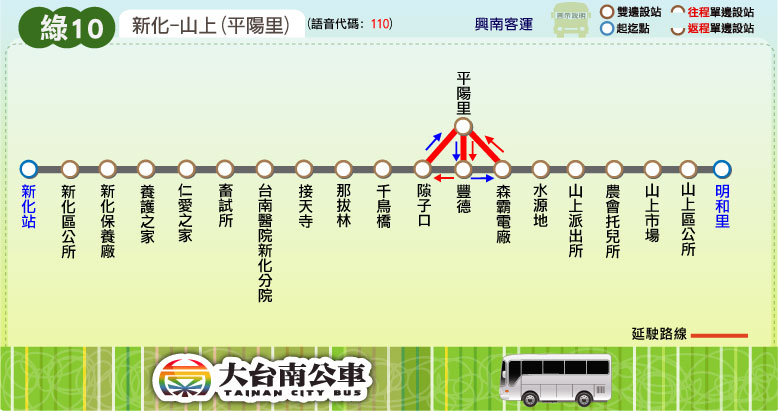
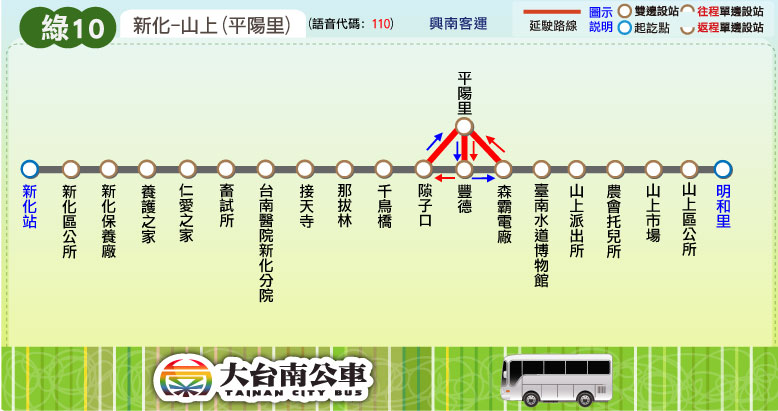
更新時刻表：南科橘線(北環西線)；站位更名：綠2、綠10、綠11(「水源地」更名為「臺南水道博物館」)

diff --git a/route/fare_and_time/green_2.js b/route/fare_and_time/green_2.js
@@ -9,7 +9,7 @@ green_2_interval_stop = [
 ["中正路","善化區公所","樹人路口"], // 善化
 ["善化轉運站","善化高中","大成陸橋"], // 善化轉運站
 ["小新里","磚窯","善化啤酒廠","士宏新村"], // 小新營
-["北勢洲","宏遠紡織","苦瓜寮","山上加油站","山上區公所","山上市場","農會托兒所","山上派出所","水源地","新庄(玉峰)"], // 山上
+["北勢洲","宏遠紡織","苦瓜寮","山上加油站","山上區公所","山上市場","農會托兒所","山上派出所","臺南水道博物館","新庄(玉峰)"], // 山上
 ["牛稠埔(玉峰)","中坑(玉峰)","玉峰里"] // 玉峰里
 ];
 green_2_fare = [
@@ -28,8 +28,8 @@ green_2_fare = [
 // format = [time at the start stop] or
 // [time, other] or
 // [time, start_stop, end_stop, other]
-green_2_main_stop_name = ["新化","新市<br />火車站","新市","南科<br />實中","亞蔬<br />中心","善化<br />轉運站","善化<br />高中","善化<br />啤酒廠","宏遠<br />紡織","山上<br />市場","水源地","玉峰里"];
+green_2_main_stop_name = ["新化","新市<br />火車站","新市","南科<br />實中","亞蔬<br />中心","善化<br />轉運站","善化<br />高中","善化<br />啤酒廠","宏遠<br />紡織","山上<br />市場","臺南水道<br />博物館","玉峰里"];
 green_2_main_stop_time_consume = [0, 10, 13, 24, 27, 40, 42, 49, 55, 60, 63, 70];
-green_2_important_stop = [0, 1, 3, 5, 9, 10]; // 新化, 新市火車站, 南科實中, 善化轉運站, 山上市場, 水源地
+green_2_important_stop = [0, 1, 3, 5, 9, 10]; // 新化, 新市火車站, 南科實中, 善化轉運站, 山上市場, 臺南水道博物館
 green_2_time_go = [["05:50"],["07:50",0,9],["13:00",0,9],["16:45"],["20:10",0,9]];
 green_2_time_return = [["07:00"],["08:50",9,0],["14:00",9,0],["18:10"],["21:10",9,0]];

diff --git a/route/fare_and_time/green_11.js b/route/fare_and_time/green_11.js
@@ -3,7 +3,7 @@ green_11_interval_stop = [
 ["新化站","新化區公所","新化保養廠","養護之家","仁愛之家"], // 新化
 ["畜試所","臺南醫院新化分院","接天寺","那拔林","千鳥橋"], // 那拔林
 ["隙仔口","豐德","森霸電廠"], // 豐德
-["水源地","山上派出所","農會托兒所","山上市場","山上區公所","明和里"], // 山上
+["臺南水道博物館","山上派出所","農會托兒所","山上市場","山上區公所","明和里"], // 山上
 ["大營路口","統一果汁廠","北大營"], // 大營路口
 ["可果美","五甲","目加溜灣","小新營","綠生活社區"], // 小新營
 ["茄拔","牛庄","北子店"], // 茄拔
@@ -22,8 +22,8 @@ green_11_fare = [
 // format = [time at the start stop] or
 // [time, other] or
 // [time, start_stop, end_stop, other]
-green_11_main_stop_name = ["新化","臺南醫院<br />新化分院","豐德","水源地","山上<br />市場","大營<br />路口","善化<br />轉運站"];
+green_11_main_stop_name = ["新化","臺南醫院<br />新化分院","豐德","臺南水道<br />博物館","山上<br />市場","大營<br />路口","善化<br />轉運站"];
 green_11_main_stop_time_consume = [0, 8, 14, 15, 18, 22, 40];
-green_11_important_stop = [0, 3, 6]; // 新化, 水源地, 善化轉運站
+green_11_important_stop = [0, 3, 6]; // 新化, 臺南水道博物館, 善化轉運站
 green_11_time_go = [["05:30"],["08:20"],["09:30",['W']],["12:30",['W']],["13:30"],["18:30"]];
 green_11_time_return = [["06:10"],["09:00"],["10:10",['W']],["13:10",['W']],["14:10"],["19:10"]];

diff --git a/route/fare_and_time/STSP_orange.js b/route/fare_and_time/STSP_orange.js
@@ -16,7 +16,7 @@ var park17_end = 11; // Park 17商場
 STSP_orange_time_go = [["06:30",[stop_01,stop_02]],["07:15",[stop_01,stop_02,[stop_2,1,stop_3,1]]],["07:15",[[stop_02+1,11,stop_2,1,stop_3,1]]],
 ["07:46",[stop_01,stop_02]],["07:58",[stop_01,stop_02]],["08:17",[stop_01,stop_02,[InnoLux,-1,park17_end,1]]],["09:18",[stop_01,stop_02,[InnoLux,-1,park17_end,1]]],
 ["10:02",[stop_01,stop_02,[InnoLux,-1,park17_end,1]]],["11:05",[stop_01,stop_02,[InnoLux,-1,park17_end,1]]],["12:00",[stop_01,stop_02,'*',[TRA_NK,23,InnoLux,-1,park17_end,1]]],["12:49",[stop_01,stop_02,[InnoLux,-1,park17_end,1]]],["13:45",[stop_01,stop_02,[InnoLux,-1,park17_end,1]]],["14:21",[stop_01,stop_02,[InnoLux,-1,park17_end,1]]],
-["15:18",[stop_01,stop_02,[InnoLux,-1,park17_end,1]]],["16:08",[stop_01,[stop_02,-6,stop_02+1,11,InnoLux,-1,park17_end,1]]],["17:03",[stop_01,stop_02]],["17:00",start_stop,TRA_NK,[stop_01,[stop_02,-3,stop_02+1,8,TRA_NK,1]]],["17:18",stop_02,TRA_NK,[[stop_02+1,5,TRA_NK,6]]]
+["15:18",[stop_01,stop_02,[InnoLux,-1,park17_end,1]]],["16:08",[stop_01,[stop_02,-6,stop_02+1,11,InnoLux,-1,park17_end,1]]],["17:03",[stop_01,stop_02]],["17:00",start_stop,TRA_NK,[stop_01,[stop_02,-6,stop_02+1,11,TRA_NK,1]]],["17:00",start_stop,TRA_NK,[stop_01,[stop_02,-6,stop_02+1,11,TRA_NK,1]]],["17:18",stop_02,TRA_NK,[[stop_02+1,5,TRA_NK,6]]]
 ];
 
 var return_stop_1 = 6; // 南科實中校門口

diff --git a/route/fare_and_time/green_10.js b/route/fare_and_time/green_10.js
@@ -4,7 +4,7 @@ green_10_interval_stop = [
 ["畜試所","臺南醫院新化分院","接天寺","那拔林","千鳥橋"], // 那拔林
 ["隙仔口","豐德","森霸電廠"], // 豐德
 ["平陽里(繞)"], // 平陽里
-["水源地","山上派出所","農會托兒所","山上市場","山上區公所","明和里"] // 山上
+["臺南水道博物館","山上派出所","農會托兒所","山上市場","山上區公所","明和里"] // 山上
 ];
 green_10_fare = [
 [26],
@@ -16,8 +16,8 @@ green_10_fare = [
 // format = [time at the start stop] or
 // [time, other] or
 // [time, start_stop, end_stop, other]
-green_10_main_stop_name = ["新化","臺南醫院<br />新化分院","豐德","平陽里","水源地","山上<br />市場","明和里"];
+green_10_main_stop_name = ["新化","臺南醫院<br />新化分院","豐德","平陽里","臺南水道<br />博物館","山上<br />市場","明和里"];
 green_10_main_stop_time_consume = [0, 8, 14, 20, 15, 18, 20];
-green_10_important_stop = [0, 4, 6]; // 新化, 水源地, 明和里
+green_10_important_stop = [0, 4, 6]; // 新化, 臺南水道博物館, 明和里
 green_10_time_go = [["06:40",[[4,10]]],["08:00",[3]],["11:00",[[4,10]]],["17:20",[3]],["21:30",[3]]];
 green_10_time_return = [["07:10",[3]],["08:20",[3]],["11:30",[[3,10]]],["17:40",[[3,10]]],["21:50",[3]]];
